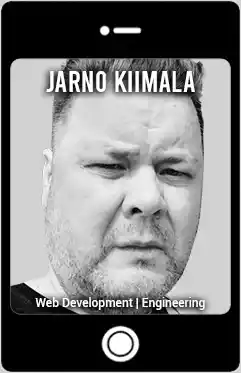
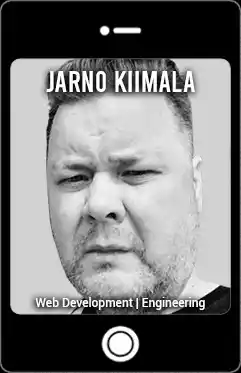
testing

diff --git a/index.html b/index.html
@@ -1134,7 +1134,7 @@
                     <div class="flip-card-back"><br>
                       
                                                 
-                        <img src="img/face2.webp" id="man" alt="Jarno Kiimala - Send email">
+                        <img src="img/face.webp" id="man" alt="Jarno Kiimala - Send email">
                         
                     </div>
                     </div>
